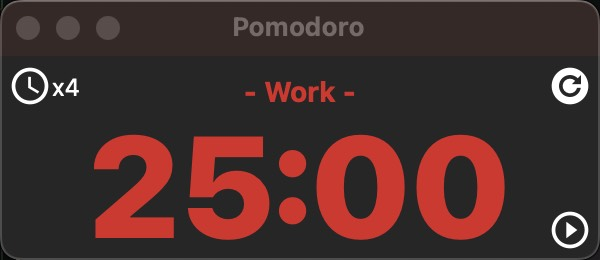
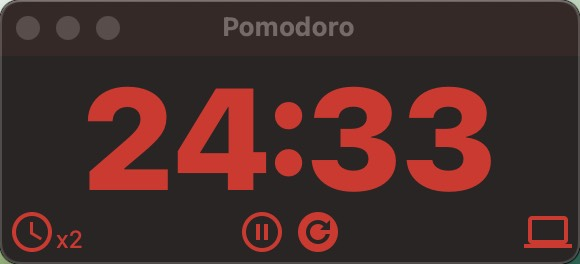
优化界面,工作状态使用图标显示,图片颜色随着工作和休息状态切换,图标颜色和字体颜色统一切换

diff --git a/src/App.tsx b/src/App.tsx
@@ -7,7 +7,7 @@ import { resolveResource } from "@tauri-apps/api/path";
 import { readTextFile } from "@tauri-apps/api/fs";
 import WorkTypeCom from "./components/WorkTypeCom";
 import { useCountStore } from "./store/store";
-import { LoadDataStatus, Status } from "./config";
+import { LoadDataStatus, Status, WorkType } from "./config";
 
 function convertDate() {
   const date = new Date();
@@ -49,8 +49,8 @@ function useInterval(callback: any, delay: number, status: Status) {
 }
 
 function App() {
-  console.info("render App");
-  const [status, today] = useCountStore((state) => [state.status, state.today]);
+  console.log("render App");
+  const [status, today, workType] = useCountStore((state) => [state.status, state.today, state.workType]);
   const updateToday = useCountStore((state) => state.updateToday);
   const updateCount = useCountStore((state) => state.updateCount);
   const updateDefaultWorkDuration = useCountStore((state) => state.updateDefaultWorkDuration);
@@ -104,15 +104,19 @@ function App() {
     countdown();
   }, 1000, status);
 
+  const s = "h-screen w-screen font-sans select-none cursor-default bg-stone-800 ";
+
   return (
-    <div className="h-screen w-screen font-sans select-none cursor-default text-white bg-neutral-800">
+    <div className={`${workType === WorkType.Work ? s+'text-red-600' : s+'text-green-600'}`}>
       <div className="flex flex-col">
-        <WorkTypeCom />
         <TimeCounterCom />
+        <div className="flex flex-row justify-center space-x-1">
+          <OperactionCom />
+          <RefreshCom />
+        </div>
       </div>
       <TodayCountCom />
-      <OperactionCom />
-      <RefreshCom />
+      <WorkTypeCom />
     </div>
   );
 }

diff --git a/src/components/WorkTypeCom.tsx b/src/components/WorkTypeCom.tsx
@@ -1,22 +1,20 @@
 import { memo } from "react";
 import { useCountStore } from "../store/store";
 import { WorkType } from "../config";
-
-function convertTitle(type: WorkType) {
-  switch (type) {
-    case WorkType.Work:
-      return "Work";
-    case WorkType.Break:
-      return "Break";
-  }
-}
+import LaptopIcon from "mdi-react/LaptopIcon";
+import CoffeeOutlineIcon from "mdi-react/CoffeeOutlineIcon";
 
 function WorkTypeCom() {
   const workType = useCountStore((state) => state.workType);
-  console.info("render Work Type", workType);
+  console.log("render Work Type", workType);
+  const className = "absolute bottom-1 right-1";
 
   return (
-    <h4 className={`${workType === WorkType.Work ? "mt-2 text-red-600 text-sm font-bold text-center" : "mt-2 text-green-600 text-sm font-bold text-center"}`}>- {convertTitle(workType)} -</h4>
+    <>
+    {
+      workType === WorkType.Work ? <LaptopIcon size={24} className={className} /> : <CoffeeOutlineIcon size={24} className={className} />
+    }
+    </>
   );
 }
 

diff --git a/src/components/OperationCom.tsx b/src/components/OperationCom.tsx
@@ -5,18 +5,18 @@ import { useCountStore } from "../store/store";
 import { Status } from "../config";
 
 function OperactionCom() {
-  console.info("render Operaction");
+  console.log("render Operaction");
   const status = useCountStore((state) => state.status);
   const tick = useCountStore((state) => state.tick);
-  const className = "cursor-pointer absolute bottom-1 right-1";
+  const className = "cursor-pointer";
 
   return (
     <>
       {
         (status === Status.Tick)  ?
-          (<PauseCircleOutlineIcon className={className} size={22} onClick={tick} />)
+          (<PauseCircleOutlineIcon className={className} size={24} onClick={tick} />)
         :
-          (<PlayCircleOutlineIcon className={className} size={22} onClick={tick} />)
+          (<PlayCircleOutlineIcon className={className} size={24} onClick={tick} />)
       }
     </>
   );

diff --git a/src/components/TimeCounterCom.tsx b/src/components/TimeCounterCom.tsx
@@ -7,10 +7,11 @@ function convertCount(count: number) : string {
 
 function TimeCounterCom() {
   const [count, workType] = useCountStore((state) => [state.count, state.workType]);
-  console.info("render TimeCounter", workType);
+  console.log("render TimeCounter", workType);
+  const s = "antialiased pt-1 text-7xl font-black text-center ";
 
   return (
-    <h1 className={`${workType === WorkType.Work ? "antialiased text-red-600 text-7xl font-black text-center" : "antialiased text-green-600 text-7xl font-black text-center"}`}>{convertCount(count)}</h1>
+    <h1 className={`${workType === WorkType.Work ? s+"text-red-600" : s+"text-green-600"}`}>{convertCount(count)}</h1>
   );
 }
 

diff --git a/src/components/TodayCountCom.tsx b/src/components/TodayCountCom.tsx
@@ -5,11 +5,11 @@ import { useCountStore } from "../store/store";
 function TodayCountCom() {
     const today = useCountStore((state) => state.today);
 
-    console.info("render today count");
+    console.log("render today count");
     return (
-      <div className="absolute top-1 left-1 flex align-bottom">
-        <ClockOutlineIcon className="" size={22} />
-        <span className="text-xs pt-1">x{today}</span>
+      <div className="absolute bottom-1 left-1 flex align-bottom">
+        <ClockOutlineIcon className="" size={24} />
+        <span className="text-xs pt-2">x{today}</span>
       </div>
     );
 }

diff --git a/src/components/RefreshCom.tsx b/src/components/RefreshCom.tsx
@@ -3,11 +3,11 @@ import { memo } from "react";
 import { useCountStore } from "../store/store";
 
 function RefreshCom() {
-    console.info("render refresh");
+    console.log("render refresh");
     const reset = useCountStore((state) => state.reset);
 
     return (
-      <RefreshCircleIcon className="cursor-pointer absolute top-1 right-1" size={22} onClick={reset} />
+      <RefreshCircleIcon className="cursor-pointer" size={24} onClick={reset} />
     );
 }
 

diff --git a/README.md b/README.md
@@ -18,7 +18,8 @@ This template should help get you started developing with Tauri, React and Types
 
 ```bash
 npm create tauri-app@latest
-npm install @tauri-apps/cli@latest @tauri-apps/api@latest
+npm install --save-dev @tauri-apps/cli@latest
+npm install
 ```
 
 ## run project
